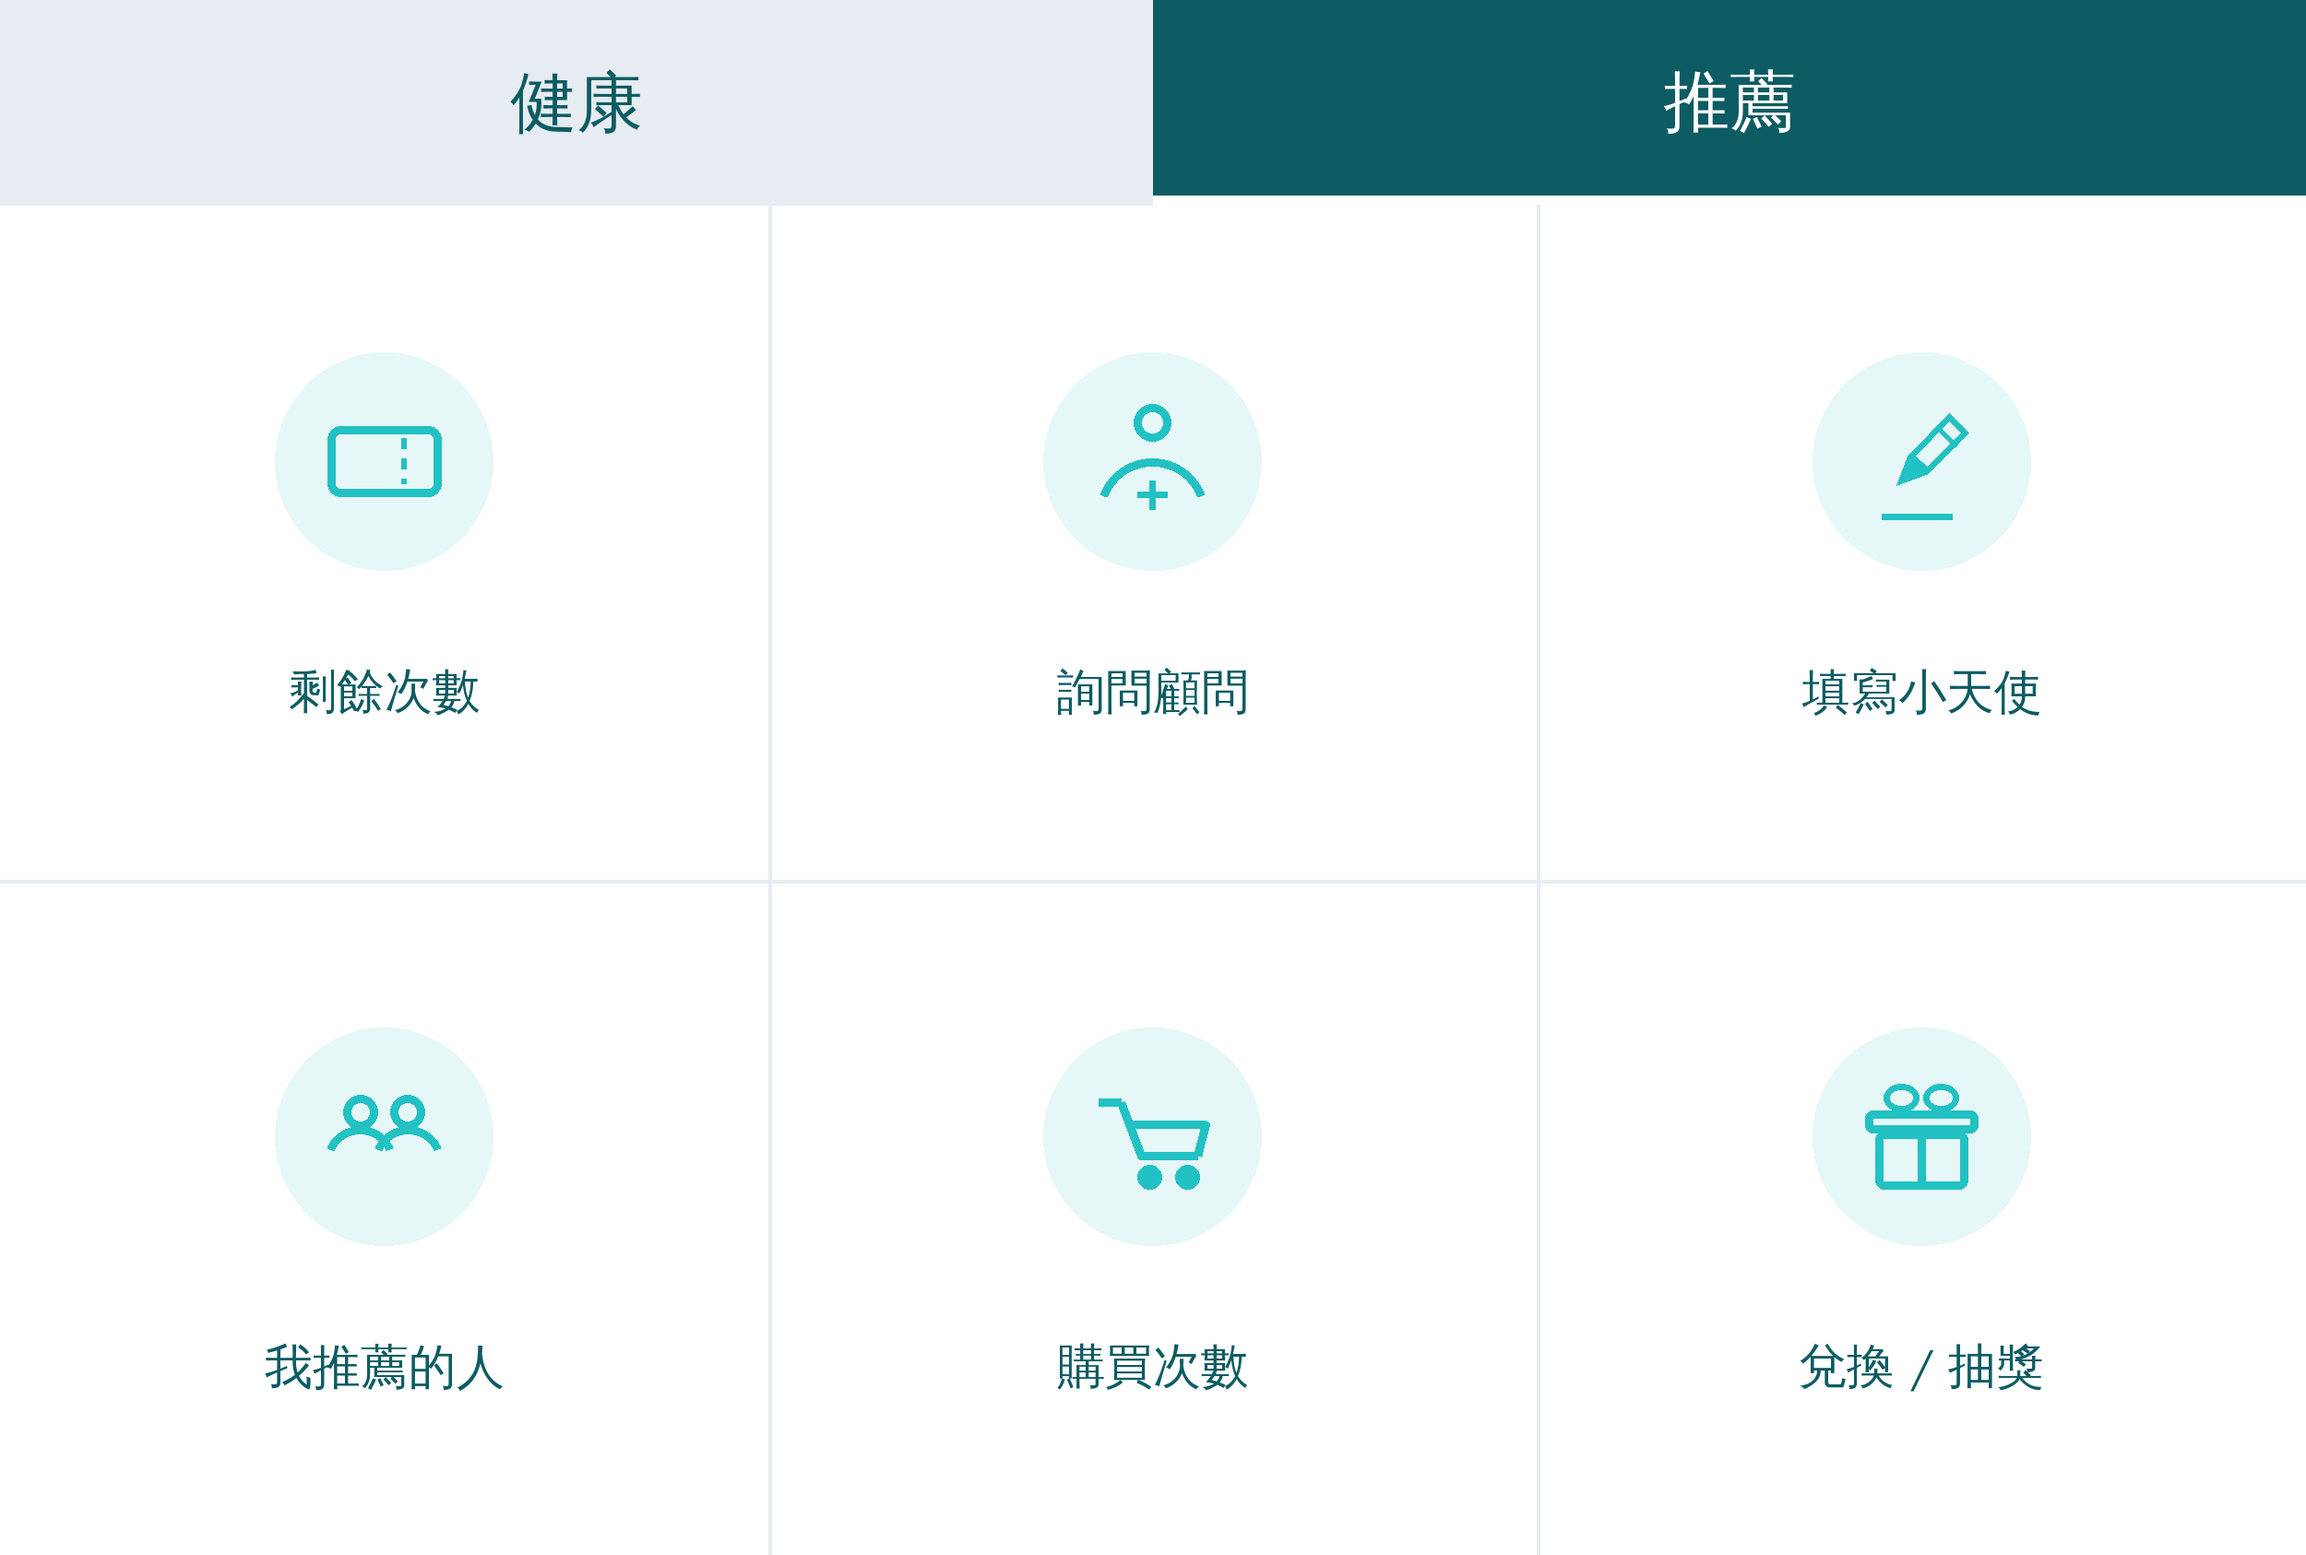
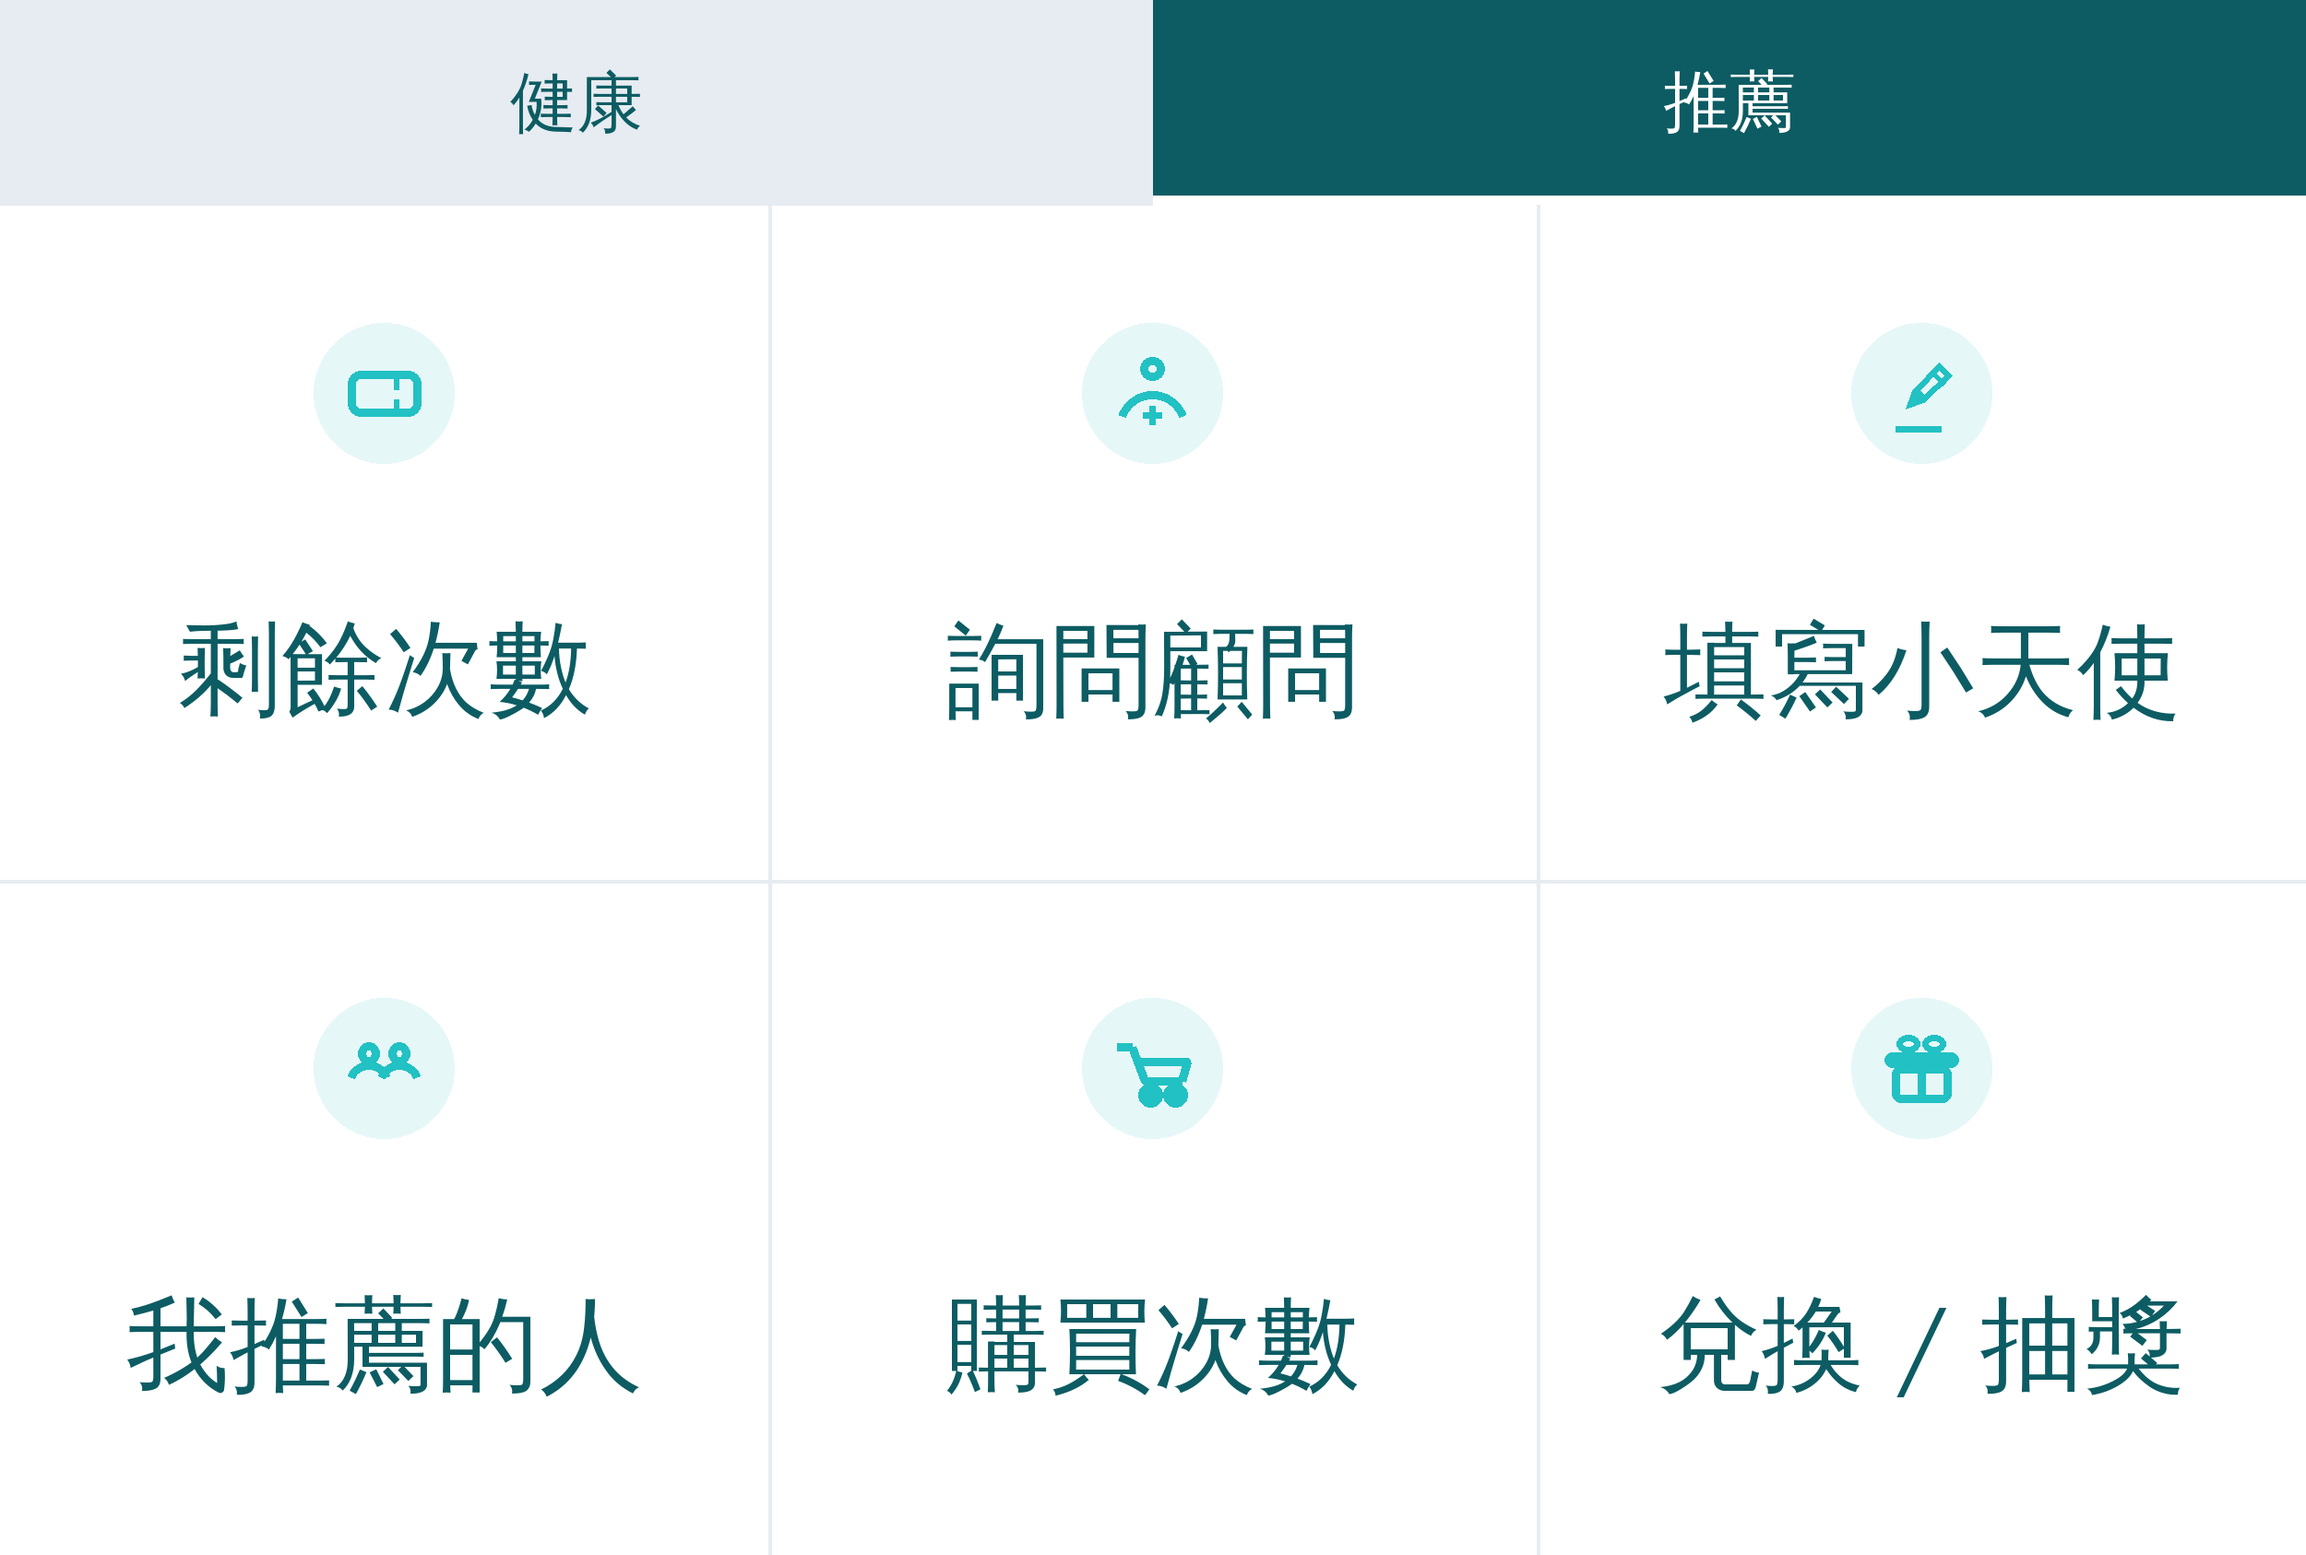
style(richmenu): 字放大成主角,貼圖縮成配角
原本 icon 半徑 118、字級 52,手機上一格只有指甲大,字幾乎讀不出來。
改成上 1/3 放小貼圖(半徑 76)、下 2/3 放字(112 起跳,長標籤自動
縮到塞得下),整組在格子裡垂直置中。

diff --git a/scripts/line/make-richmenu-images.py b/scripts/line/make-richmenu-images.py
@@ -78,6 +78,18 @@ def font(size):
     return ImageFont.truetype(FONT_PATH, size)
 
 
+def fit_font(d, text, max_w, start, floor=64):
+    """從 start 開始縮到塞得進 max_w 為止。標籤長短不一,固定字級會爆格。"""
+    size = start
+    while size > floor:
+        f = font(size)
+        left, _, right, _ = d.textbbox((0, 0), text, font=f)
+        if right - left <= max_w:
+            return f
+        size -= 4
+    return font(floor)
+
+
 def center_text(d, box, text, f, fill):
     """把文字置中在 (x, y, w, h) 方框裡"""
     x, y, w, h = box
@@ -213,7 +225,10 @@ def build(tab):
                 fill=WHITE)
 
     # ── 六格 ──
-    f_label = font(52)
+    # 版面配比:上 1/3 放小貼圖,下 2/3 放字。
+    # 手機上圖文選單一格只有指甲大,字才是使用者真正在讀的東西,
+    # icon 只要能認出是哪一類就夠,不需要跟字搶空間。
+    ICON_R = 76
     for idx, (label, icon) in enumerate(tab["cells"]):
         r, c = divmod(idx, COLS)
         x, y, w = COL_X[c], ROW_Y[r], COL_W[c]
@@ -224,9 +239,11 @@ def build(tab):
         if r > 0:
             d.rectangle([x, y, x + w, y + 3], fill=LINE_COL)
 
-        # icon 在上、標籤在下,距離格線至少 60px
-        draw_icon(d, x + w / 2, y + CELL_H * 0.38, 118, icon)
-        center_text(d, (x, y + CELL_H * 0.66, w, 90), label, f_label, TEXT_DARK)
+        # 上 1/3:小貼圖。整組(圖+字)在格子裡垂直置中,不要上擠下空。
+        draw_icon(d, x + w / 2, y + CELL_H * 0.28, ICON_R, icon)
+        # 下 2/3:標籤,字級自動縮到塞得下為止
+        f_label = fit_font(d, label, w - 70, 112)
+        center_text(d, (x, y + CELL_H * 0.50, w, CELL_H * 0.38), label, f_label, TEXT_DARK)
 
     return img
 
